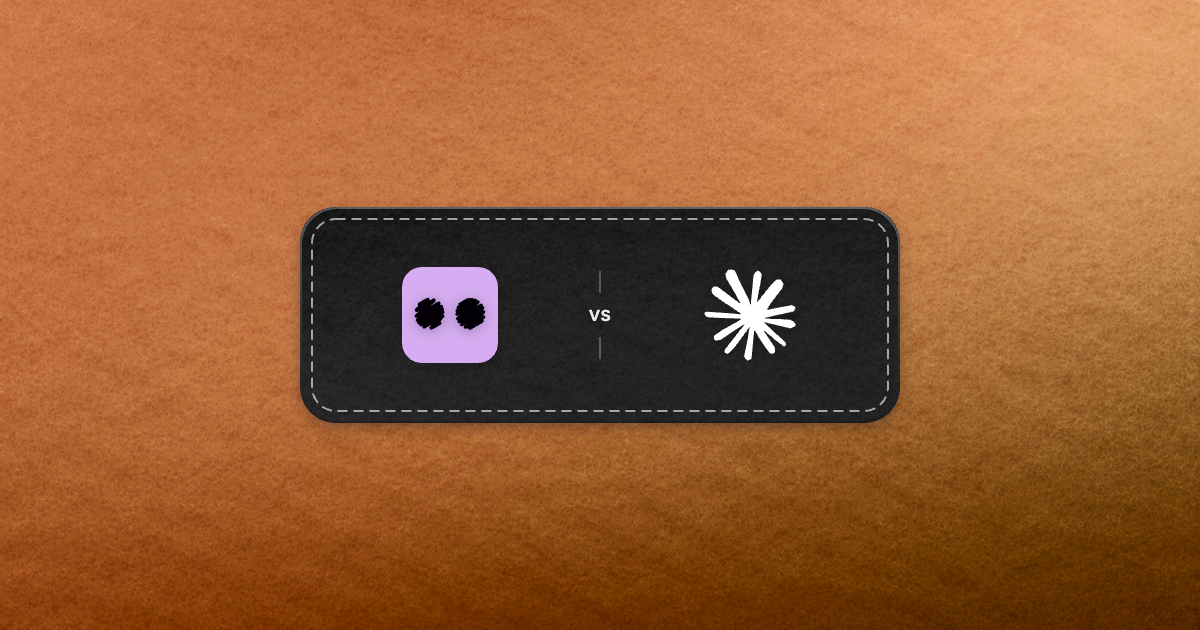
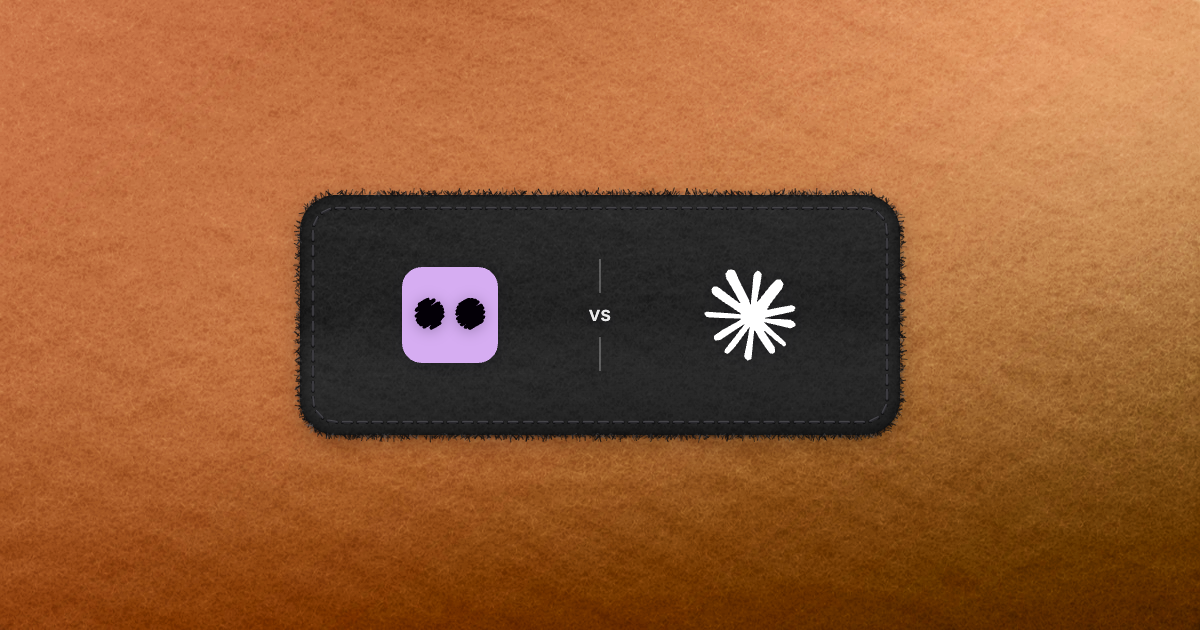
Sew the compare card patch onto the felt
The black felt patch now has depth: a tight contact shadow and a wider
soft one, edges that curve away into shade, a cut edge of loose fibres,
and a running stitch of dark thread with needle holes. The patch is a
little taller.

Changed region(s): [[0.2467, 0.3016, 0.7708, 0.7238]]

diff --git a/apps/auth-api/content-image-page.ts b/apps/auth-api/content-image-page.ts
@@ -288,7 +288,7 @@ function drawLockup(context: CanvasRenderingContext2D, job: ContentImageJob, loc
 function drawCenteredLockup(context: CanvasRenderingContext2D, job: ContentImageJob, lockup: ContentImageLockup): void {
   const unit = job.width / 1200;
   const plateWidth = 600 * unit;
-  const plateHeight = 216 * unit;
+  const plateHeight = 240 * unit;
   const logoSize = 96 * unit;
   const x = (job.width - plateWidth) / 2;
   const y = (job.height - plateHeight) / 2;
@@ -342,7 +342,7 @@ function drawCenteredMarkRow(
   const size = 48 * unit;
   const gap = 28 * unit;
   const padX = 48 * unit;
-  const padY = 44 * unit;
+  const padY = 54 * unit;
   const plateWidth = padX * 2 + size * marks.length + gap * (marks.length - 1);
   const plateHeight = padY * 2 + size;
   const x = (job.width - plateWidth) / 2;
@@ -380,8 +380,10 @@ function drawMarkRow(
 }
 
 /**
- * A patch of black felt sewn onto the card: a stitch just inside its edge, a
- * cut edge lit from above and a short shadow.
+ * A patch of black felt sewn onto the felt of the card. It reads as a real
+ * patch through its depth (a tight contact shadow and a wider soft one, edges
+ * that curve away under an inner shade), a cut edge of loose fibres, and a
+ * running stitch of dark thread whose stitches sink into the felt.
  */
 function drawFeltPatch(
   context: CanvasRenderingContext2D,
@@ -393,53 +395,184 @@ function drawFeltPatch(
 ): void {
   const unit = job.width / 1200;
   const radius = 36 * unit;
+  const random = seededRandom(job.slug);
   const under = document.createElement("canvas");
   under.width = job.width;
   under.height = job.height;
   under.getContext("2d")?.drawImage(context.canvas, 0, 0);
 
-  context.save();
-  context.shadowColor = "rgba(12, 10, 24, 0.32)";
-  context.shadowBlur = 14 * unit;
-  context.shadowOffsetY = 5 * unit;
-  roundedRect(context, x, y, width, height, radius);
-  context.fillStyle = "#000000";
-  context.fill();
-  context.restore();
+  // Depth: a wide soft shadow, then a tight one where the patch meets the felt.
+  for (const shadow of [
+    { color: "rgba(0, 0, 0, 0.3)", blur: 24, offset: 7 },
+    { color: "rgba(0, 0, 0, 0.55)", blur: 3, offset: 1.5 },
+  ]) {
+    context.save();
+    context.shadowColor = shadow.color;
+    context.shadowBlur = shadow.blur * unit;
+    context.shadowOffsetY = shadow.offset * unit;
+    roundedRect(context, x, y, width, height, radius);
+    context.fillStyle = "#000000";
+    context.fill();
+    context.restore();
+  }
 
   context.save();
   roundedRect(context, x, y, width, height, radius);
   context.clip();
   // Black felt: the card's own felt without its colour, turned half a turn about
   // the middle of the card so its fibres do not line up and it covers any plate.
+  context.save();
   context.translate(job.width / 2, job.height / 2);
   context.rotate(Math.PI);
   context.filter = "grayscale(1) contrast(1.8) brightness(0.26)";
   context.drawImage(under, -job.width / 2, -job.height / 2);
   context.restore();
-
-  // The cut edge: lit at the top, in shade at the bottom.
-  const edge = context.createLinearGradient(0, y, 0, y + height);
-  edge.addColorStop(0, "rgba(255, 255, 255, 0.3)");
-  edge.addColorStop(1, "rgba(0, 0, 0, 0.18)");
-  context.save();
-  roundedRect(context, x + unit, y + unit, width - 2 * unit, height - 2 * unit, radius);
-  context.strokeStyle = edge;
-  context.lineWidth = 2 * unit;
-  context.stroke();
-
-  // The stitch.
-  const inset = 12 * unit;
-  roundedRect(context, x + inset, y + inset, width - inset * 2, height - inset * 2, radius - inset);
-  context.setLineDash([9 * unit, 7 * unit]);
-  context.lineCap = "round";
-  context.strokeStyle = "rgba(255, 255, 255, 0.6)";
-  context.lineWidth = 2 * unit;
-  context.shadowColor = "rgba(0, 0, 0, 0.3)";
-  context.shadowBlur = 2 * unit;
-  context.shadowOffsetY = unit;
-  context.stroke();
+  // Light from above, and edges that curve away into shade.
+  const light = context.createLinearGradient(0, y, 0, y + height);
+  light.addColorStop(0, "rgba(255, 255, 255, 0.07)");
+  light.addColorStop(0.5, "rgba(255, 255, 255, 0)");
+  light.addColorStop(1, "rgba(0, 0, 0, 0.12)");
+  context.fillStyle = light;
+  context.fillRect(x, y, width, height);
+  context.beginPath();
+  context.rect(x - 60 * unit, y - 60 * unit, width + 120 * unit, height + 120 * unit);
+  context.roundRect(x, y, width, height, radius);
+  context.shadowColor = "rgba(0, 0, 0, 0.7)";
+  context.shadowBlur = 14 * unit;
+  context.fillStyle = "#000000";
+  context.fill("evenodd");
   context.restore();
+
+  // The cut edge: loose fibres across it, dark over the felt and a little lighter on the patch.
+  const perimeter = roundedRectPerimeter(width, height, radius);
+  const fibres = Math.round(perimeter / (0.9 * unit));
+  context.save();
+  context.lineCap = "round";
+  for (let index = 0; index < fibres; index += 1) {
+    const point = roundedRectPoint(x, y, width, height, radius, random() * perimeter);
+    const along = (random() - 0.5) * 3 * unit;
+    const angle = Math.atan2(point.ny, point.nx) + (random() - 0.5) * 2.2;
+    const length = (1.5 + random() * 4.5) * unit;
+    const startX = point.x + point.nx * along;
+    const startY = point.y + point.ny * along;
+    context.strokeStyle = random() < 0.75 ? `rgba(14, 14, 16, ${0.55 + random() * 0.4})` : "rgba(90, 90, 96, 0.35)";
+    context.lineWidth = (0.5 + random() * 0.7) * unit;
+    context.beginPath();
+    context.moveTo(startX, startY);
+    context.lineTo(startX + Math.cos(angle) * length, startY + Math.sin(angle) * length);
+    context.stroke();
+  }
+  context.restore();
+
+  // The running stitch of dark thread, just inside the edge.
+  const inset = 13 * unit;
+  const stitchRadius = radius - inset;
+  const stitchWidth = width - inset * 2;
+  const stitchHeight = height - inset * 2;
+  const stitchPerimeter = roundedRectPerimeter(stitchWidth, stitchHeight, stitchRadius);
+  const pitch = 15 * unit;
+  const stitchLength = 9 * unit;
+  const count = Math.round(stitchPerimeter / pitch);
+  context.save();
+  context.lineCap = "round";
+  for (let index = 0; index < count; index += 1) {
+    const from = (index / count) * stitchPerimeter;
+    const start = roundedRectPoint(x + inset, y + inset, stitchWidth, stitchHeight, stitchRadius, from);
+    const end = roundedRectPoint(
+      x + inset,
+      y + inset,
+      stitchWidth,
+      stitchHeight,
+      stitchRadius,
+      from + stitchLength + (random() - 0.5) * unit,
+    );
+    // The holes the needle left, pressed into the felt.
+    context.fillStyle = "rgba(0, 0, 0, 0.85)";
+    for (const hole of [start, end]) {
+      context.beginPath();
+      context.arc(hole.x, hole.y + 0.4 * unit, 1.6 * unit, 0, Math.PI * 2);
+      context.fill();
+    }
+    // The thread, then the light on its top.
+    context.strokeStyle = "#2c2b30";
+    context.lineWidth = 2.6 * unit;
+    context.beginPath();
+    context.moveTo(start.x, start.y);
+    context.lineTo(end.x, end.y);
+    context.stroke();
+    context.strokeStyle = "rgba(255, 255, 255, 0.16)";
+    context.lineWidth = 0.9 * unit;
+    context.beginPath();
+    context.moveTo(start.x, start.y - 0.6 * unit);
+    context.lineTo(end.x, end.y - 0.6 * unit);
+    context.stroke();
+  }
+  context.restore();
+}
+
+function roundedRectPerimeter(width: number, height: number, radius: number): number {
+  return 2 * (width - 2 * radius) + 2 * (height - 2 * radius) + 2 * Math.PI * radius;
+}
+
+/**
+ * The point at `distance` along the edge of a rounded rectangle, clockwise from
+ * the start of the top side, with the outward normal there.
+ */
+function roundedRectPoint(
+  x: number,
+  y: number,
+  width: number,
+  height: number,
+  radius: number,
+  distance: number,
+): { x: number; y: number; nx: number; ny: number } {
+  const straightX = width - 2 * radius;
+  const straightY = height - 2 * radius;
+  const arc = (Math.PI * radius) / 2;
+  const corners = [
+    { cx: x + width - radius, cy: y + radius, from: -Math.PI / 2 },
+    { cx: x + width - radius, cy: y + height - radius, from: 0 },
+    { cx: x + radius, cy: y + height - radius, from: Math.PI / 2 },
+    { cx: x + radius, cy: y + radius, from: Math.PI },
+  ] as const;
+  const sides = [
+    { length: straightX, at: (t: number) => ({ x: x + radius + t, y, nx: 0, ny: -1 }) },
+    { length: straightY, at: (t: number) => ({ x: x + width, y: y + radius + t, nx: 1, ny: 0 }) },
+    { length: straightX, at: (t: number) => ({ x: x + width - radius - t, y: y + height, nx: 0, ny: 1 }) },
+    { length: straightY, at: (t: number) => ({ x, y: y + height - radius - t, nx: -1, ny: 0 }) },
+  ] as const;
+  let rest =
+    ((distance % roundedRectPerimeter(width, height, radius)) + roundedRectPerimeter(width, height, radius)) %
+    roundedRectPerimeter(width, height, radius);
+  for (let index = 0; index < 4; index += 1) {
+    const side = sides[index];
+    const corner = corners[index];
+    if (!side || !corner) break;
+    if (rest <= side.length) return side.at(rest);
+    rest -= side.length;
+    if (rest <= arc) {
+      const angle = corner.from + rest / radius;
+      const nx = Math.cos(angle);
+      const ny = Math.sin(angle);
+      return { x: corner.cx + nx * radius, y: corner.cy + ny * radius, nx, ny };
+    }
+    rest -= arc;
+  }
+  return { x: x + radius, y, nx: 0, ny: -1 };
+}
+
+/** Mulberry32, seeded with an FNV-1a hash of the text, so two runs draw the same bytes. */
+function seededRandom(text: string): () => number {
+  let state = 2166136261;
+  for (let index = 0; index < text.length; index += 1) {
+    state = Math.imul(state ^ text.charCodeAt(index), 16777619);
+  }
+  return () => {
+    state = (state + 0x6d2b79f5) | 0;
+    let value = Math.imul(state ^ (state >>> 15), 1 | state);
+    value = (value + Math.imul(value ^ (value >>> 7), 61 | value)) ^ value;
+    return ((value ^ (value >>> 14)) >>> 0) / 4294967296;
+  };
 }
 
 /** The average luma of an area, from a sparse sample of its pixels. */
